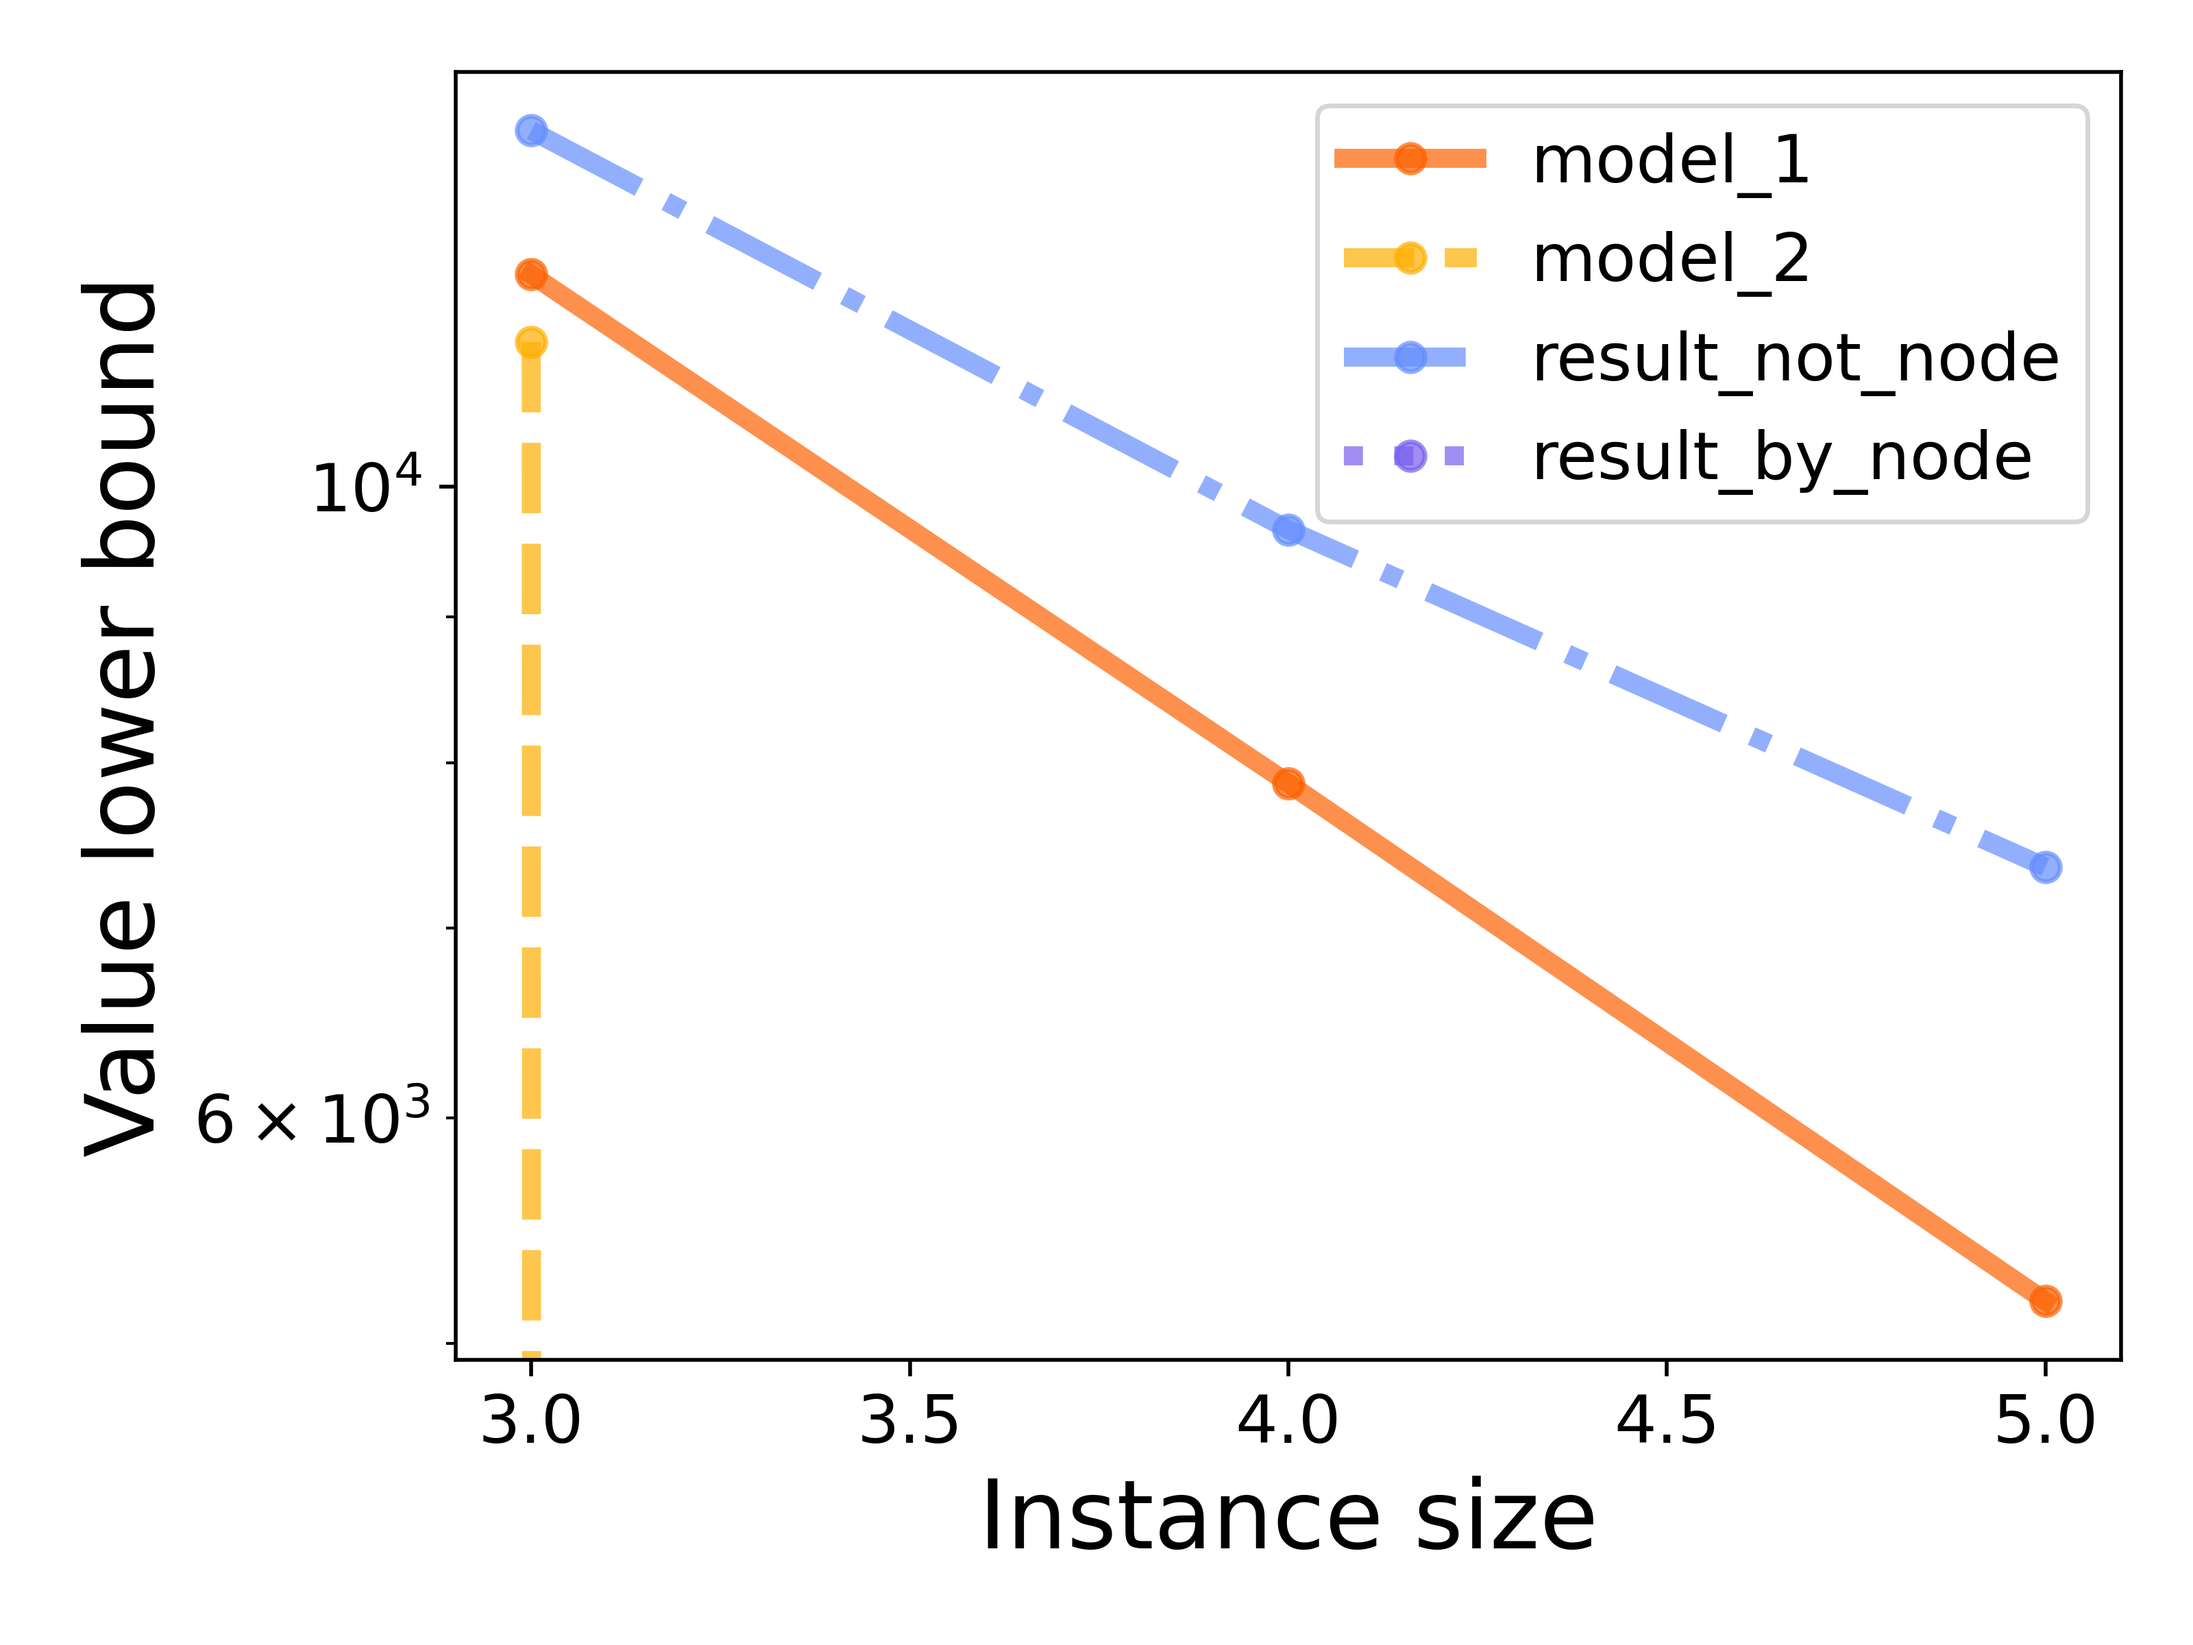
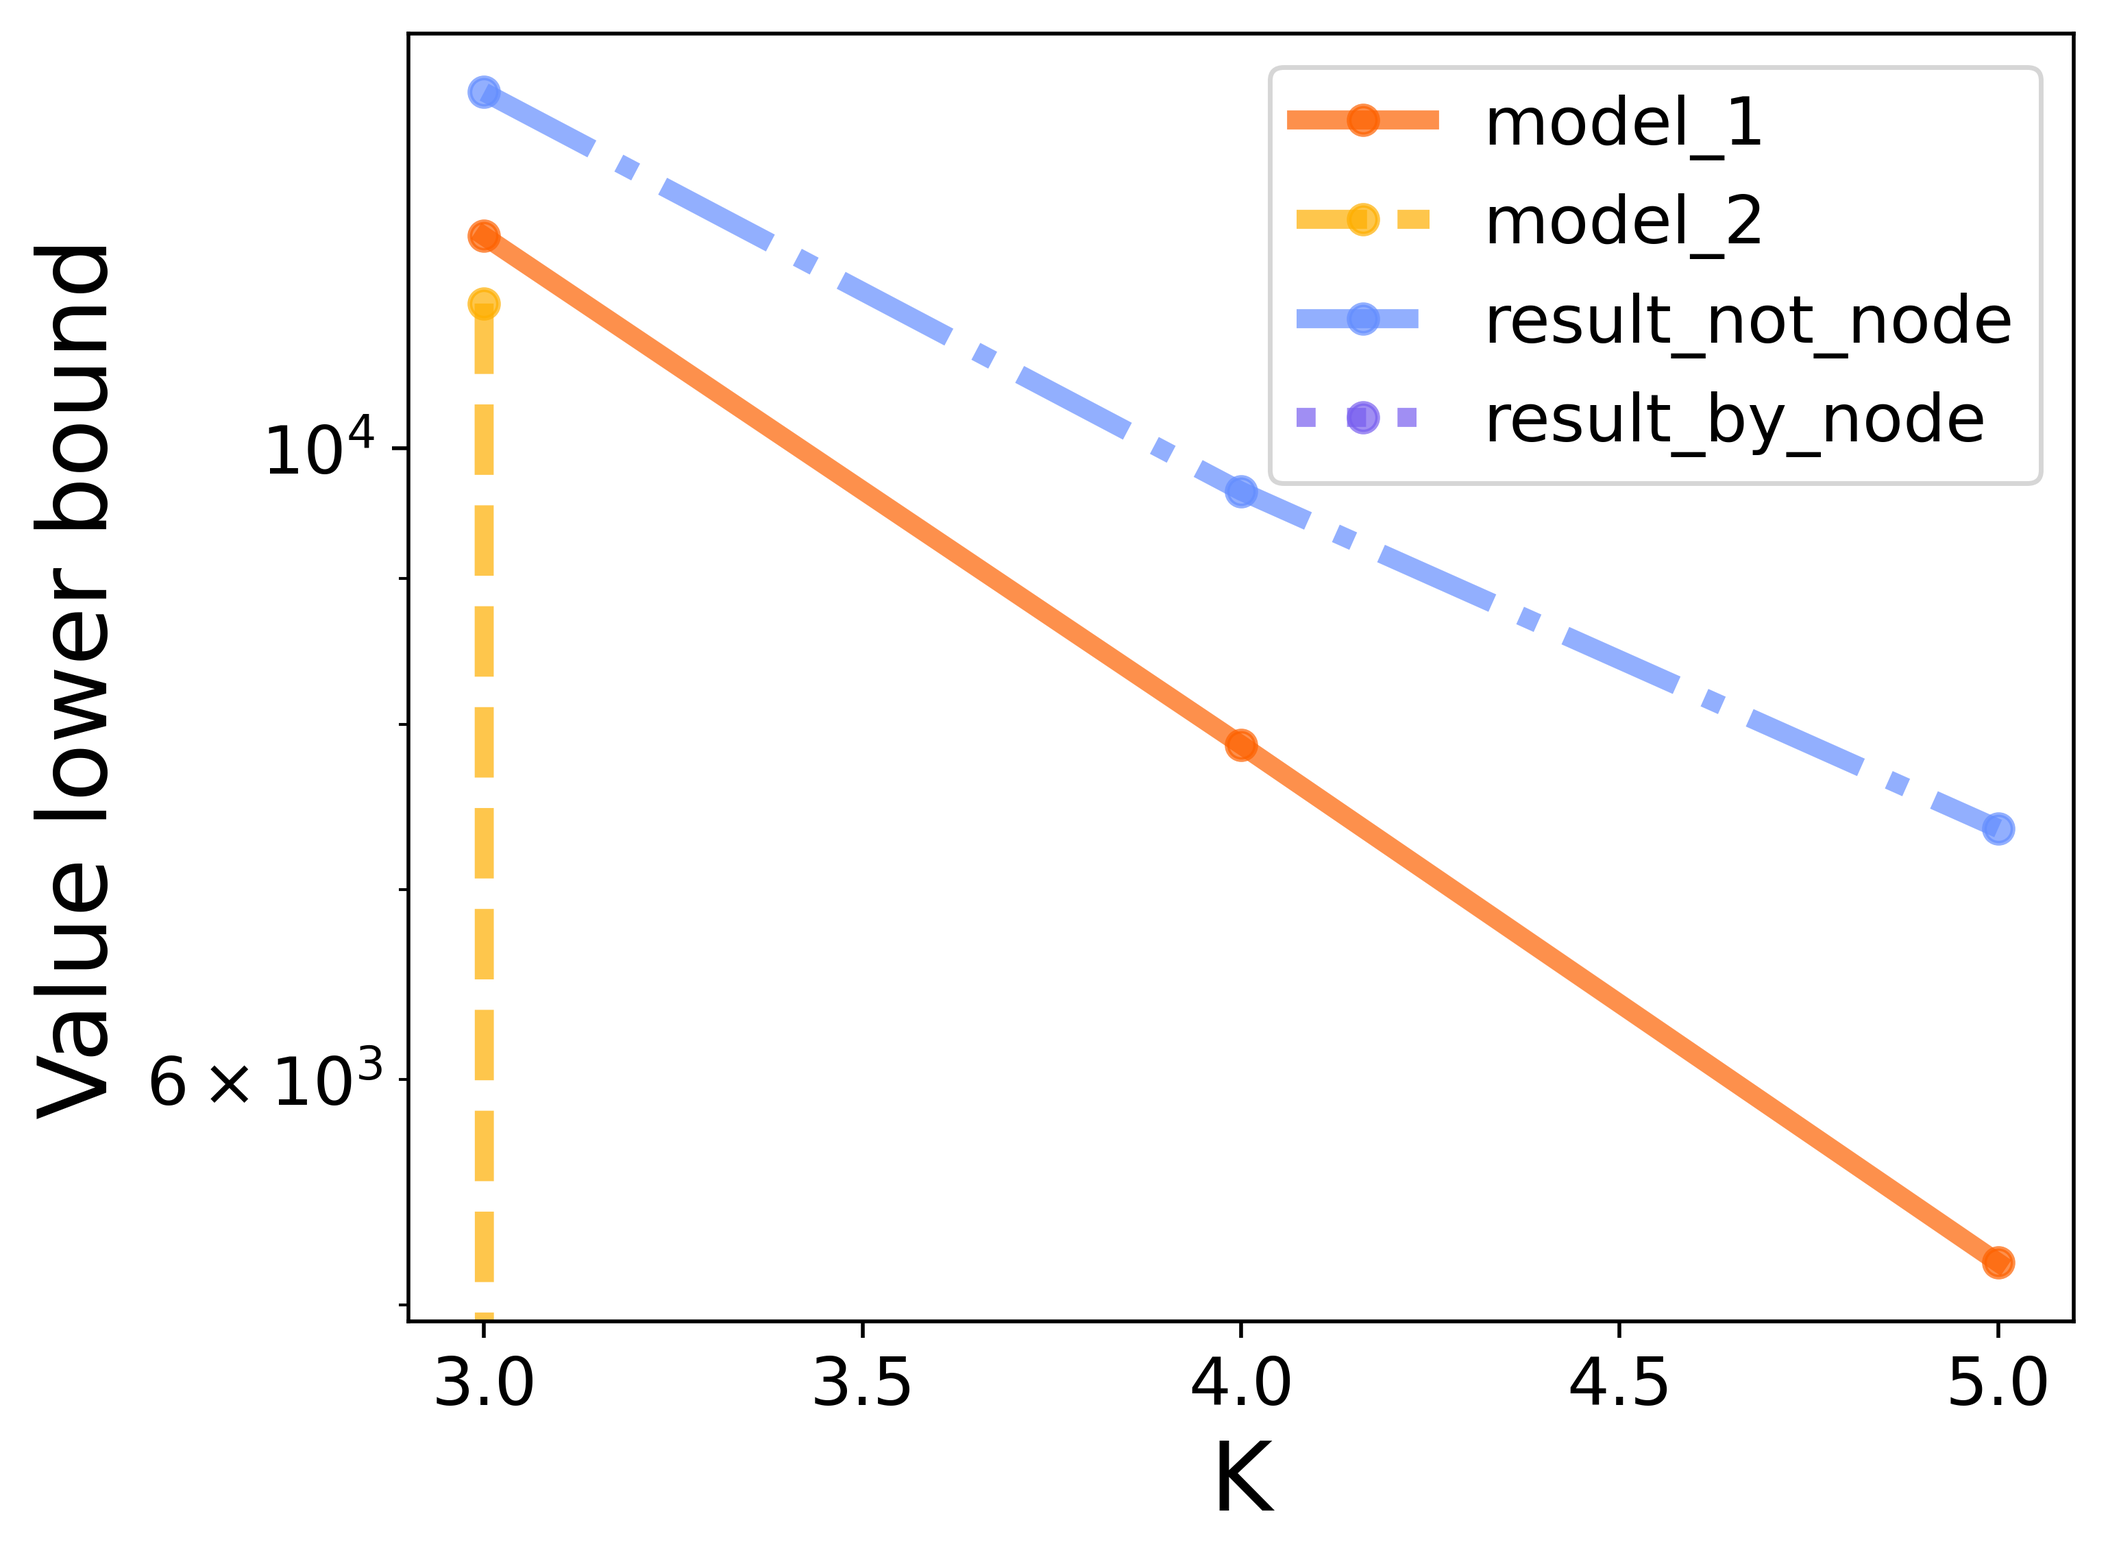
im4

diff --git a/parser.py b/parser.py
@@ -39,7 +39,7 @@ def make_graph_instance_size(p,k):
   plt.ylabel("Value lower bound")
   plt.legend(loc='best')
   fig_value_lb.tight_layout()
-  plt.savefig("image"+os.sep+"Value_lb_instance_K-"+str(K_list[k])+"_P-"+str(P_list[p])+".png",dpi=500)
+  plt.savefig("image"+os.sep+"Value_lb_instance_K-"+str(K_list[k])+"_P-"+str(P_list[p])+".png",dpi=500, bbox_inches='tight')
   plt.close(fig_value_lb)#plt.show() #
 
   fig_value_ub=plt.figure()
@@ -49,7 +49,7 @@ def make_graph_instance_size(p,k):
   plt.ylabel("Value upper bound")
   plt.legend(loc='best')
   fig_value_lb.tight_layout()
-  plt.savefig("image"+os.sep+"Value_ub_instance_K-"+str(K_list[k])+"_P-"+str(P_list[p])+".png",dpi=500)
+  plt.savefig("image"+os.sep+"Value_ub_instance_K-"+str(K_list[k])+"_P-"+str(P_list[p])+".png",dpi=500, bbox_inches='tight')
   plt.close(fig_value_ub)#plt.show() #
 
   figtime=plt.figure()
@@ -59,39 +59,39 @@ def make_graph_instance_size(p,k):
   plt.ylabel("Time")
   plt.legend(loc='best')
   figtime.tight_layout()
-  plt.savefig("image"+os.sep+"Time_instance_K-"+str(K_list[k])+"_P-"+str(P_list[p])+".png",dpi=500)
+  plt.savefig("image"+os.sep+"Time_instance_K-"+str(K_list[k])+"_P-"+str(P_list[p])+".png",dpi=500, bbox_inches='tight')
   plt.close(figtime)#plt.show() #
 
 def make_graph_K(p,instance):
   fig_value_lb=plt.figure()
   for m in range(len(model_list)):
     plt.plot([int(K_list[k]) for k in range(len(K_list)) ],[value_lb[instance][k][p][m] for k in range(len(K_list))], lines[m], label=model_list[m], color=color[m], alpha = 0.7, marker ='o')
-  plt.xlabel("Instance size")
+  plt.xlabel("K")
   plt.yscale("log")
   plt.ylabel("Value lower bound")
   plt.legend(loc='best')
   fig_value_lb.tight_layout()
-  plt.savefig("image"+os.sep+"Value_lb_K_instance-"+str(instance_list[instance])+"_P-"+str(P_list[p])+".png",dpi=500)
+  plt.savefig("image"+os.sep+"Value_lb_K_instance-"+str(instance_list[instance])+"_P-"+str(P_list[p])+".png",dpi=500, bbox_inches='tight')
   plt.close(fig_value_lb)#plt.show() #
 
   fig_value_ub=plt.figure()
   for m in range(len(model_list)-2):
     plt.plot([int(K_list[k]) for k in range(len(K_list)) ],[value_ub[instance][k][p][m] for k in range(len(K_list))], lines[m+2], label=model_list[m+2], color=color[m+2], alpha = 0.7, marker ='o')
-  plt.xlabel("Instance size")
+  plt.xlabel("K")
   plt.ylabel("Value upper bound")
   plt.legend(loc='best')
   fig_value_lb.tight_layout()
-  plt.savefig("image"+os.sep+"Value_ub_K_instance-"+str(instance_list[instance])+"_P-"+str(P_list[p])+".png",dpi=500)
+  plt.savefig("image"+os.sep+"Value_ub_K_instance-"+str(instance_list[instance])+"_P-"+str(P_list[p])+".png",dpi=500, bbox_inches='tight')
   plt.close(fig_value_ub)#plt.show() #
 
   figtime=plt.figure()
   for m in range(len(model_list)):
     plt.plot([int(K_list[k]) for k in range(len(K_list)) ],[time[instance][k][p][m] for k in range(len(K_list))], lines[m], label=model_list[m].split(".")[0], color=color[m], alpha = 0.7, marker ='o')
-  plt.xlabel("Instance size")
+  plt.xlabel("K")
   plt.ylabel("Time")
   plt.legend(loc='best')
   figtime.tight_layout()
-  plt.savefig("image"+os.sep+"Time_K_instance-"+str(instance_list[instance])+"_P-"+str(P_list[p])+".png",dpi=500)
+  plt.savefig("image"+os.sep+"Time_K_instance-"+str(instance_list[instance])+"_P-"+str(P_list[p])+".png",dpi=500, bbox_inches='tight')
   plt.close(figtime)#plt.show() #
 
 
@@ -99,32 +99,32 @@ def make_graph_P(k,instance):
   fig_value_lb=plt.figure()
   for m in range(len(model_list)):
     plt.plot([float(P_list[p]) for p in range(len(P_list)) ],[value_lb[instance][k][p][m] for p in range(len(P_list))], lines[m], label=model_list[m], color=color[m], alpha = 0.7, marker ='o')
-  plt.xlabel("Instance size")
+  plt.xlabel("P")
   plt.yscale("log")
   plt.ylabel("Value lower bound")
   plt.legend(loc='best')
   fig_value_lb.tight_layout()
-  plt.savefig("image"+os.sep+"Value_lb_P_instance-"+str(instance_list[instance])+"_K-"+str(K_list[k])+".png",dpi=500)
+  plt.savefig("image"+os.sep+"Value_lb_P_instance-"+str(instance_list[instance])+"_K-"+str(K_list[k])+".png",dpi=500, bbox_inches='tight')
   plt.close(fig_value_lb)#plt.show() #
 
   fig_value_ub=plt.figure()
   for m in range(len(model_list)-2):
     plt.plot([float(P_list[p]) for p in range(len(P_list)) ],[value_ub[instance][k][p][m] for p in range(len(P_list))], lines[m+2], label=model_list[m+2], color=color[m+2], alpha = 0.7, marker ='o')
-  plt.xlabel("Instance size")
+  plt.xlabel("P")
   plt.ylabel("Value upper bound")
   plt.legend(loc='best')
   fig_value_lb.tight_layout()
-  plt.savefig("image"+os.sep+"Value_ub_P_instance-"+str(instance_list[instance])+"_K-"+str(K_list[k])+".png",dpi=500)
+  plt.savefig("image"+os.sep+"Value_ub_P_instance-"+str(instance_list[instance])+"_K-"+str(K_list[k])+".png",dpi=500, bbox_inches='tight')
   plt.close(fig_value_ub)#plt.show() #
 
   figtime=plt.figure()
   for m in range(len(model_list)):
     plt.plot([float(P_list[p]) for p in range(len(P_list)) ],[time[instance][k][p][m] for p in range(len(P_list))], lines[m], label=model_list[m].split(".")[0], color=color[m], alpha = 0.7, marker ='o')
-  plt.xlabel("Instance size")
+  plt.xlabel("P")
   plt.ylabel("Time")
   plt.legend(loc='best')
   figtime.tight_layout()
-  plt.savefig("image"+os.sep+"Time_P_instance-"+str(instance_list[instance])+"_K-"+str(K_list[k])+".png",dpi=500)
+  plt.savefig("image"+os.sep+"Time_P_instance-"+str(instance_list[instance])+"_K-"+str(K_list[k])+".png",dpi=500, bbox_inches='tight')
   plt.close(figtime)#plt.show() #
 
 
